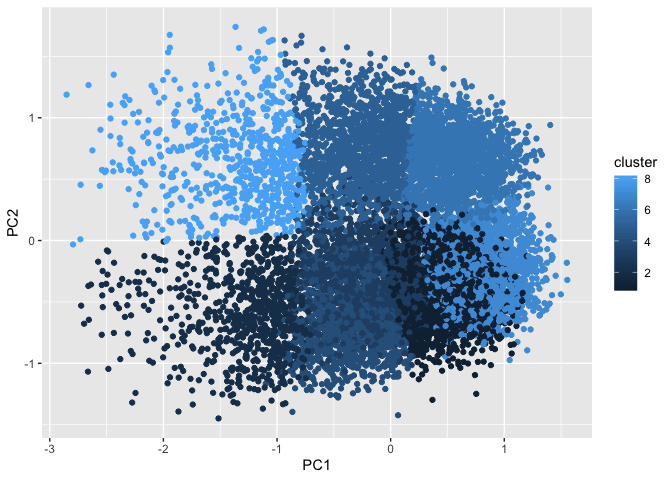
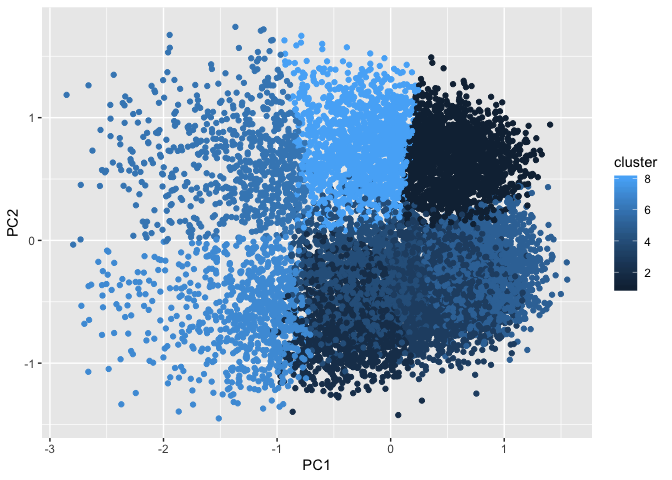
Included Andrew's technical report structure.

diff --git a/nba_project.md b/nba_project.md
@@ -10,85 +10,33 @@ library(corrplot)
 library(gganimate)
 ```
 
+## Abstract
+
+## Introduction
+
+### The data
+
+#### Provenance
+
+We obtained our datasets from basketball-reference.com and
+stats.nba.com. We used the R package `nbastatR` to obtain the data from
+those websites.
+
+#### Unit of observation and Variables
+
+Our unit of observation is a player during one season. Our original
+dataset consists of 21235 observations and 75 variables, but we’ve
+reduced this number to 10223 observations after selecting seasons after
+1983 and players that have played in at least 600 minutes in the season.
+We’ve also taken out some unnecessary variables to make a 11695
+observation, 49 variable dataset. We have included descriptions of the
+variables at the bottom of the page.
+
 ``` r
 # Gets player stats from 1984 to 2020.
-players_post1984 <- bref_players_stats(seasons = 1984:2020, tables = c("advanced", "per_game"), include_all_nba = TRUE)
+players_post1984 <- bref_players_stats(seasons = 1984:2020, tables = c("advanced", "per_game"), include_all_nba = TRUE, return_message = FALSE)
 ```
 
-    ## parsed http://www.basketball-reference.com/leagues/NBA_1984_advanced.html
-    ## parsed http://www.basketball-reference.com/leagues/NBA_1985_advanced.html
-    ## parsed http://www.basketball-reference.com/leagues/NBA_1986_advanced.html
-    ## parsed http://www.basketball-reference.com/leagues/NBA_1987_advanced.html
-    ## parsed http://www.basketball-reference.com/leagues/NBA_1988_advanced.html
-    ## parsed http://www.basketball-reference.com/leagues/NBA_1989_advanced.html
-    ## parsed http://www.basketball-reference.com/leagues/NBA_1990_advanced.html
-    ## parsed http://www.basketball-reference.com/leagues/NBA_1991_advanced.html
-    ## parsed http://www.basketball-reference.com/leagues/NBA_1992_advanced.html
-    ## parsed http://www.basketball-reference.com/leagues/NBA_1993_advanced.html
-    ## parsed http://www.basketball-reference.com/leagues/NBA_1994_advanced.html
-    ## parsed http://www.basketball-reference.com/leagues/NBA_1995_advanced.html
-    ## parsed http://www.basketball-reference.com/leagues/NBA_1996_advanced.html
-    ## parsed http://www.basketball-reference.com/leagues/NBA_1997_advanced.html
-    ## parsed http://www.basketball-reference.com/leagues/NBA_1998_advanced.html
-    ## parsed http://www.basketball-reference.com/leagues/NBA_1999_advanced.html
-    ## parsed http://www.basketball-reference.com/leagues/NBA_2000_advanced.html
-    ## parsed http://www.basketball-reference.com/leagues/NBA_2001_advanced.html
-    ## parsed http://www.basketball-reference.com/leagues/NBA_2002_advanced.html
-    ## parsed http://www.basketball-reference.com/leagues/NBA_2003_advanced.html
-    ## parsed http://www.basketball-reference.com/leagues/NBA_2004_advanced.html
-    ## parsed http://www.basketball-reference.com/leagues/NBA_2005_advanced.html
-    ## parsed http://www.basketball-reference.com/leagues/NBA_2006_advanced.html
-    ## parsed http://www.basketball-reference.com/leagues/NBA_2007_advanced.html
-    ## parsed http://www.basketball-reference.com/leagues/NBA_2008_advanced.html
-    ## parsed http://www.basketball-reference.com/leagues/NBA_2009_advanced.html
-    ## parsed http://www.basketball-reference.com/leagues/NBA_2010_advanced.html
-    ## parsed http://www.basketball-reference.com/leagues/NBA_2011_advanced.html
-    ## parsed http://www.basketball-reference.com/leagues/NBA_2012_advanced.html
-    ## parsed http://www.basketball-reference.com/leagues/NBA_2013_advanced.html
-    ## parsed http://www.basketball-reference.com/leagues/NBA_2014_advanced.html
-    ## parsed http://www.basketball-reference.com/leagues/NBA_2015_advanced.html
-    ## parsed http://www.basketball-reference.com/leagues/NBA_2016_advanced.html
-    ## parsed http://www.basketball-reference.com/leagues/NBA_2017_advanced.html
-    ## parsed http://www.basketball-reference.com/leagues/NBA_2018_advanced.html
-    ## parsed http://www.basketball-reference.com/leagues/NBA_2019_advanced.html
-    ## parsed http://www.basketball-reference.com/leagues/NBA_2020_advanced.html
-    ## parsed http://www.basketball-reference.com/leagues/NBA_1984_per_game.html
-    ## parsed http://www.basketball-reference.com/leagues/NBA_1985_per_game.html
-    ## parsed http://www.basketball-reference.com/leagues/NBA_1986_per_game.html
-    ## parsed http://www.basketball-reference.com/leagues/NBA_1987_per_game.html
-    ## parsed http://www.basketball-reference.com/leagues/NBA_1988_per_game.html
-    ## parsed http://www.basketball-reference.com/leagues/NBA_1989_per_game.html
-    ## parsed http://www.basketball-reference.com/leagues/NBA_1990_per_game.html
-    ## parsed http://www.basketball-reference.com/leagues/NBA_1991_per_game.html
-    ## parsed http://www.basketball-reference.com/leagues/NBA_1992_per_game.html
-    ## parsed http://www.basketball-reference.com/leagues/NBA_1993_per_game.html
-    ## parsed http://www.basketball-reference.com/leagues/NBA_1994_per_game.html
-    ## parsed http://www.basketball-reference.com/leagues/NBA_1995_per_game.html
-    ## parsed http://www.basketball-reference.com/leagues/NBA_1996_per_game.html
-    ## parsed http://www.basketball-reference.com/leagues/NBA_1997_per_game.html
-    ## parsed http://www.basketball-reference.com/leagues/NBA_1998_per_game.html
-    ## parsed http://www.basketball-reference.com/leagues/NBA_1999_per_game.html
-    ## parsed http://www.basketball-reference.com/leagues/NBA_2000_per_game.html
-    ## parsed http://www.basketball-reference.com/leagues/NBA_2001_per_game.html
-    ## parsed http://www.basketball-reference.com/leagues/NBA_2002_per_game.html
-    ## parsed http://www.basketball-reference.com/leagues/NBA_2003_per_game.html
-    ## parsed http://www.basketball-reference.com/leagues/NBA_2004_per_game.html
-    ## parsed http://www.basketball-reference.com/leagues/NBA_2005_per_game.html
-    ## parsed http://www.basketball-reference.com/leagues/NBA_2006_per_game.html
-    ## parsed http://www.basketball-reference.com/leagues/NBA_2007_per_game.html
-    ## parsed http://www.basketball-reference.com/leagues/NBA_2008_per_game.html
-    ## parsed http://www.basketball-reference.com/leagues/NBA_2009_per_game.html
-    ## parsed http://www.basketball-reference.com/leagues/NBA_2010_per_game.html
-    ## parsed http://www.basketball-reference.com/leagues/NBA_2011_per_game.html
-    ## parsed http://www.basketball-reference.com/leagues/NBA_2012_per_game.html
-    ## parsed http://www.basketball-reference.com/leagues/NBA_2013_per_game.html
-    ## parsed http://www.basketball-reference.com/leagues/NBA_2014_per_game.html
-    ## parsed http://www.basketball-reference.com/leagues/NBA_2015_per_game.html
-    ## parsed http://www.basketball-reference.com/leagues/NBA_2016_per_game.html
-    ## parsed http://www.basketball-reference.com/leagues/NBA_2017_per_game.html
-    ## parsed http://www.basketball-reference.com/leagues/NBA_2018_per_game.html
-    ## parsed http://www.basketball-reference.com/leagues/NBA_2019_per_game.html
-    ## parsed http://www.basketball-reference.com/leagues/NBA_2020_per_game.html
     ## Advanced
     ## Assigning NBA player dictionary to df_dict_nba_players to your environment
     ## PerGame
@@ -134,6 +82,72 @@ for(year in 1985:2020){
 }
 ```
 
+### Variables used:
+
+#### Shooting:
+
+  - pctFTRate: The percentage of total field goal attempts that are Free
+    Throws.
+  - pct3PRate: The percentage of total field goal attempts that are 3-pt
+    shots.
+  - pctFG: Field Goal Percentage.
+  - pctFG3: Field Goal 3-pt Percentage.
+  - pctFG2: Field Goal 2-pt Percentage.
+  - pctEFG: Effective Field Goal Percentage. (FGM + (0.5 \* 3PM)/FGA).
+    This statistic adjusts for the fact that a 3-pt field goal is worth
+    one more point than a regular 2-pt field goal.
+  - pctFT: Free Throw Percentage.
+  - fgmPerGame: Field Goal Made per Game.
+  - fgaPerGame: Field Goal Attempts per game
+  - fg3mPerGame: Field Goal Made (3-pt) per game.
+  - fg3aPerGame: Field Goal Attempts (3-pt) per game.
+  - fg2mPerGame: Field Goal Made (2-pt) per game.
+  - fg2aPerGame: Field Goal Attempts (2-pt) per game.
+  - ftmPerGame: Free Throws Made per game.
+  - ftaPerGame: Free Throw Attempts per game.
+  - ptsPerGame: Points per game.
+
+#### Rebounds
+
+  - pctORB: Offensive Rebound Percentage (Rebound Rate).
+  - pctTRB: Total Rebound Percentage (Rebound Rate).
+  - pctDRB: Deffensive Rebound Percentage (Rebound Rate).
+  - orbPerGame: Offensive Rebounds per game.
+  - drbPerGame: Deffensive Rebounds per game.
+  - trbPerGame: Total Rebounds per game.
+
+#### Passing
+
+  - pctAST: Assists Percentage.
+  - pctTOV: Turnover Percentage.
+  - astPerGame: Assists per game.
+  - tovPerGame: Turnovers per game.
+
+#### Defense
+
+  - pctSTL: Steals percentage.
+  - pctBLK: Blocks percentage.
+  - stlPerGame: Steals per game.
+  - blkPerGame: Blocks per game.
+  - pfPerGame: Personal Fouls per game.
+
+#### Efficiency stats
+
+  - ratioPER: Player Efficiency Rating
+  - ratioOWS: Offensive Win Shares.
+  - ratioDWS: Deffensive Win Shares.
+  - ratioWS: Win Shares.
+  - ratioWSPer48: Win Shares per 48 minutes.
+  - ratioOBPM: Offensive Box Plus/Minus.
+  - ratioDBPM: Deffensive Box Plus/Minus.
+  - ratioBPM: Box Plus/Minus.
+  - ratioVORP: Value Over Replacement Player.
+  - minutesPerGame: Minutes Per Game
+  - pctUSG: Usage Percentage. (100 \* ((FGA + 0.44 \* FTA + TOV) \* (Tm
+    MP / 5)) / (MP \* (Tm FGA + 0.44 \* Tm FTA + Tm TOV))
+
+## Modeling
+
 ``` r
 pca <- prcomp(players_post1984_normalized[,-c(1:5, 49)])
 d <- as.data.frame(pca$x)
@@ -142,23 +156,23 @@ pc1
 ```
 
     ##        ratioPER pctTrueShooting       pct3PRate       pctFTRate          pctORB 
-    ##   -0.1983005970   -0.1093611304    0.0446114991   -0.0647713332    0.0009161219 
+    ##   -0.1983625651   -0.1096560289    0.0450415240   -0.0645939906    0.0008473103 
     ##          pctDRB          pctTRB          pctAST          pctSTL          pctBLK 
-    ##   -0.0700374947   -0.0607858529   -0.0727580277    0.0245108654    0.0212159135 
+    ##   -0.0703342253   -0.0610925823   -0.0726174793    0.0243398447    0.0213361996 
     ##          pctTOV          pctUSG        ratioOWS        ratioDWS         ratioWS 
-    ##    0.0472907155   -0.1560062675   -0.1734807205   -0.1600089366   -0.1981641340 
+    ##    0.0473415150   -0.1558420993   -0.1733695953   -0.1601178810   -0.1980718041 
     ##    ratioWSPer48       ratioOBPM       ratioDBPM        ratioBPM       ratioVORP 
-    ##   -0.1544842420   -0.1718822222   -0.0538801002   -0.1726861352   -0.1729401844 
+    ##   -0.1545547328   -0.1716825298   -0.0541296497   -0.1727587240   -0.1730167817 
     ##           pctFG          pctFG3          pctFG2          pctEFG           pctFT 
-    ##   -0.0889145670   -0.0305770644   -0.0863343808   -0.0805329326   -0.0432231125 
+    ##   -0.0890130179   -0.0301497723   -0.0867476037   -0.0808641061   -0.0431294379 
     ##  minutesPerGame      fgmPerGame      fgaPerGame     fg3mPerGame     fg3aPerGame 
-    ##   -0.2998895356   -0.2521327630   -0.2396053072   -0.0744153019   -0.0769013838 
+    ##   -0.2998802496   -0.2520598913   -0.2393978475   -0.0740288563   -0.0765422662 
     ##     fg2mPerGame     fg2aPerGame      ftmPerGame      ftaPerGame      orbPerGame 
-    ##   -0.2393336867   -0.2379725493   -0.2102740187   -0.2068602535   -0.1238684669 
+    ##   -0.2394002954   -0.2379954877   -0.2101622791   -0.2067910575   -0.1241007495 
     ##      drbPerGame      trbPerGame      astPerGame      stlPerGame      blkPerGame 
-    ##   -0.1743708911   -0.1668884971   -0.1198521019   -0.1465998170   -0.0812665818 
+    ##   -0.1745598419   -0.1670796551   -0.1197270166   -0.1465014745   -0.0814533718 
     ##      tovPerGame       pfPerGame      ptsPerGame 
-    ##   -0.2133118488   -0.1379065883   -0.2479709457
+    ##   -0.2132481504   -0.1380382641   -0.2477798647
 
 ``` r
 pc2 <- pca$rotation[, 2]
@@ -166,23 +180,23 @@ pc2
 ```
 
     ##        ratioPER pctTrueShooting       pct3PRate       pctFTRate          pctORB 
-    ##     0.008229544     0.025154303    -0.302072212     0.132369578     0.084388721 
+    ##     0.008093201     0.024866603    -0.302265875     0.133036994     0.084371147 
     ##          pctDRB          pctTRB          pctAST          pctSTL          pctBLK 
-    ##     0.274858386     0.316735159    -0.177544483     0.124695068    -0.239702234 
+    ##     0.274526380     0.316509190    -0.177338898     0.124483178    -0.239434465 
     ##          pctTOV          pctUSG        ratioOWS        ratioDWS         ratioWS 
-    ##     0.046451946    -0.071807006    -0.031764850     0.070089271     0.001804887 
+    ##     0.047242354    -0.072037142    -0.031801400     0.070104565     0.001781529 
     ##    ratioWSPer48       ratioOBPM       ratioDBPM        ratioBPM       ratioVORP 
-    ##     0.037530614    -0.108632785     0.166371704     0.003848704    -0.008176325 
+    ##     0.037530607    -0.108601969     0.166454069     0.003709114    -0.008387688 
     ##           pctFG          pctFG3          pctFG2          pctEFG           pctFT 
-    ##     0.159966530    -0.338672020     0.098603795     0.041321588    -0.147209737 
+    ##     0.160038194    -0.338814126     0.098377219     0.041200109    -0.147541566 
     ##  minutesPerGame      fgmPerGame      fgaPerGame     fg3mPerGame     fg3aPerGame 
-    ##    -0.075582357    -0.059985441    -0.099951216    -0.278630463    -0.289626927 
+    ##    -0.076328842    -0.060422390    -0.100476045    -0.278753652    -0.289747933 
     ##     fg2mPerGame     fg2aPerGame      ftmPerGame      ftaPerGame      orbPerGame 
-    ##     0.016978015    -0.005219723    -0.020993061     0.008195159     0.224811902 
+    ##     0.016693261    -0.005611984    -0.021097180     0.008074360     0.224529869 
     ##      drbPerGame      trbPerGame      astPerGame      stlPerGame      blkPerGame 
-    ##     0.154785859     0.188029191    -0.149428426    -0.109689812     0.152621746 
+    ##     0.154532789     0.187831955    -0.149386934    -0.109607878     0.152575475 
     ##      tovPerGame       pfPerGame      ptsPerGame 
-    ##    -0.053685910     0.133881667    -0.073864587
+    ##    -0.053767182     0.133413899    -0.074140031
 
 ``` r
 pca3 <- pca$rotation[, 3]
@@ -349,3 +363,21 @@ ggplot(n_pcas_hier, aes(x = PC1, y = PC2, color = cluster)) + geom_point()
 ```
 
 ![](nba_project_files/figure-gfm/unnamed-chunk-4-3.png)<!-- -->
+
+## Discussion
+
+### Looking at PCA (Principal Component Analysis)
+
+PC1 seems to be a case of an “Usage” (-) vs “Non-Usage” (+) battle. In
+the negative side, we see characteristics such as ptsPerGame,
+fgmPerGame, fg2mPerGame, fg2aPerGame. The other types of variables do
+not tend to take on positive values, but the ones that are include:
+pctBLK, pctSTL, pctTOV.
+
+Looking at PC2, I would describe this as “Shooters” (-) vs “Baseline”
+(+). We see negative values for shooting characteristics, such as
+pct3PRate, fg3mPerGame, fg3aPerGame, and positive values for
+characteristics typical for tall, big players:pctDRB, pctTRB,
+blkPerGame.
+
+## References
